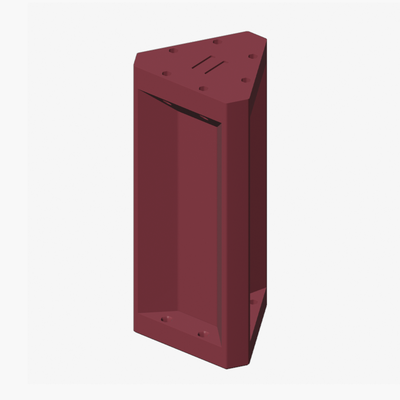
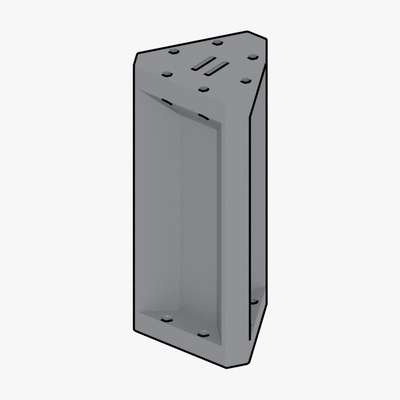
BOM: grey STL previews with edge lines, uniform image size
Re-render the tool STL previews in grey with black feature edges and
display all BOM images at the same width.

Changed region(s): [[0.33, 0.06, 0.69, 0.93]]

diff --git a/documentation/bom/bom.md b/documentation/bom/bom.md
@@ -7,9 +7,9 @@ Printable parts link directly to their `.stl` file and PCBs to their production 
 | Name | Qty | Description | Comments | Suggested link | Image |
 |------|-----|-------------|----------|----------------|-------|
 | Steel ball | 12 | Ø1 mm (0.04") | Precision G10 or better. Can be sourced from small ball bearings | [Aliexpress](https://www.aliexpress.com/item/1005008399505167.html) | |
-| PU stretch cord | 1 m | Ø1mm | e.g. "Stretch Magic" or "Magic String" | [Aliexpress](https://www.aliexpress.com/item/1005006140225266.html) | ![Pu strech cord](images/PU_StretchCord.png) |
+| PU stretch cord | 1 m | Ø1mm | e.g. "Stretch Magic" or "Magic String" | [Aliexpress](https://www.aliexpress.com/item/1005006140225266.html) | <img src="images/PU_StretchCord.png" alt="Pu strech cord" width="120"> |
 | Neodym Cylinder Magnet | 70 | Ø3mm h=5 mm | N52 Grade | [NeoMagnets](https://www.buyneomagnets.com/p/3mm-dia-x-5mm-thick-n52-neodymium-rare-earth-disc-magnets-100-pack/) | |
-| Brass Pipe | 1 m | OD=Ø2mm ID=Ø1 mm | | [Amazon](https://a.co/d/1pRFmtf), [Aliexpress](https://www.aliexpress.com/item/1005006371614363.html) | ![Brass Pipe](images/BrassPipe.png) |
+| Brass Pipe | 1 m | OD=Ø2mm ID=Ø1 mm | | [Amazon](https://a.co/d/1pRFmtf), [Aliexpress](https://www.aliexpress.com/item/1005006371614363.html) | <img src="images/BrassPipe.png" alt="Brass Pipe" width="120"> |
 | M2-8 dowel | 9 | | | [Aliexpress](https://www.aliexpress.com/item/1005009401701158.html) | |
 | SHCS M2-8 | 9 | | | | |
 | Set Screw M3-6 | 3 | | | | |
@@ -22,37 +22,37 @@ Printable parts link directly to their `.stl` file and PCBs to their production 
 
 | Name | Qty | Description | Comments | Suggested link | Image |
 |------|-----|-------------|----------|----------------|-------|
-| DC-DC Step Down Module | 1 | 5V Fixed Output Step-Down Buck Converter | | [Aliexpress](https://www.aliexpress.com/item/1005008257960729.html) | ![DC-DC Step Down](images/Fixed_DC_DC-StepDown.png) |
+| DC-DC Step Down Module | 1 | 5V Fixed Output Step-Down Buck Converter | | [Aliexpress](https://www.aliexpress.com/item/1005008257960729.html) | <img src="images/Fixed_DC_DC-StepDown.png" alt="DC-DC Step Down" width="120"> |
 | (1N5819) OR (PMEG4010) | 1 | Diode (through-hole or SMD) | | | |
-| Raspberry Pi Pico 2 | 1 | Microcontroller board | | [Aliexpress](https://www.aliexpress.com/item/1005007660023339.html) | ![Raspberry Pi Pico 2](images/RaspberryPiPico2.png) |
-| MT6835 Magnetic Encoder Module | 3 | Magnetic encoder | | [Aliexpress](https://www.aliexpress.com/item/1005012795954973.html) | ![MT6835 Magnetic Encoder Module](images/MT6835.png) |
-| TB6612FNG Driver | 3 | | | [Aliexpress](https://www.aliexpress.com/item/1005006246388728.html) | ![TB6612FNG Driver](images/TB6612FNG.png) |
+| Raspberry Pi Pico 2 | 1 | Microcontroller board | | [Aliexpress](https://www.aliexpress.com/item/1005007660023339.html) | <img src="images/RaspberryPiPico2.png" alt="Raspberry Pi Pico 2" width="120"> |
+| MT6835 Magnetic Encoder Module | 3 | Magnetic encoder | | [Aliexpress](https://www.aliexpress.com/item/1005012795954973.html) | <img src="images/MT6835.png" alt="MT6835 Magnetic Encoder Module" width="120"> |
+| TB6612FNG Driver | 3 | | | [Aliexpress](https://www.aliexpress.com/item/1005006246388728.html) | <img src="images/TB6612FNG.png" alt="TB6612FNG Driver" width="120"> |
 | 470 µF Electrolytic Capacitor | 3 | > 100 µF | anything > 100µF will work well | | |
 | 10 µF Ceramic Capacitor 0603 | 3 | Optional | | | |
 | 4.7 k Resistor 0603 | 2 | Optional | | | |
 | NEMA 17 Stepper Motor | 3 | Body ≤ 38 mm | Body length <= 38mm | [Aliexpress](https://www.aliexpress.com/item/4001359634598.html) | |
-| JST XH2.54 4P connector | 3 | 4P Housing & Header 2.54mm pitch | J1, J2, J3 (motors) | [Aliexpress](https://www.aliexpress.com/item/1005007080333485.html) | ![JST XH2.54 Connector](images/JST_XH2.54_Connector.png) |
-| XT60H Connector | 1 | 2P Male & Female pair 7.5mm pitch | Power connector | [Aliexpress](https://www.aliexpress.com/item/1005007605928815.html) | ![XT60H Connector](images/XT60H_Pairs.png) |
-| PH2.0 4P Housing <br> PH2.0 8P Housing | 1 <br> 1 | 4P 2mm pitch Housing <br> 8P 2mm pitch Housing | J5 (tool/I2C)<br> J4 (encoders) | [Aliexpress](https://www.aliexpress.com/item/1005010491403413.html) | ![PH2.0 Housings](images/PH2_Housings.png) |
-| PH2.0 4P Header <br> PH2.0 8P Header | 1 <br> 1 | 4P 2mm pitch Header <br> 8P 2mm pitch Header | J5 (tool/I2C) <br> J4 (encoders) | [Aliexpress](https://www.aliexpress.com/item/1005010491403413.html) | ![PH2.0 Headers](images/PH2_Headers.png) |
+| JST XH2.54 4P connector | 3 | 4P Housing & Header 2.54mm pitch | J1, J2, J3 (motors) | [Aliexpress](https://www.aliexpress.com/item/1005007080333485.html) | <img src="images/JST_XH2.54_Connector.png" alt="JST XH2.54 Connector" width="120"> |
+| XT60H Connector | 1 | 2P Male & Female pair 7.5mm pitch | Power connector | [Aliexpress](https://www.aliexpress.com/item/1005007605928815.html) | <img src="images/XT60H_Pairs.png" alt="XT60H Connector" width="120"> |
+| PH2.0 4P Housing <br> PH2.0 8P Housing | 1 <br> 1 | 4P 2mm pitch Housing <br> 8P 2mm pitch Housing | J5 (tool/I2C)<br> J4 (encoders) | [Aliexpress](https://www.aliexpress.com/item/1005010491403413.html) | <img src="images/PH2_Housings.png" alt="PH2.0 Housings" width="120"> |
+| PH2.0 4P Header <br> PH2.0 8P Header | 1 <br> 1 | 4P 2mm pitch Header <br> 8P 2mm pitch Header | J5 (tool/I2C) <br> J4 (encoders) | [Aliexpress](https://www.aliexpress.com/item/1005010491403413.html) | <img src="images/PH2_Headers.png" alt="PH2.0 Headers" width="120"> |
 
 ## PCBs
 
 | Name | Qty | Description | Comments | File | Image |
 | ---- | --- | ----------- | -------- | ---- | ----- |
-| Control Board | 1 | | | [.zip](../../construction/v4_PCB_zip/PrecisionStepperController3X_v1.3.zip) | ![Control Board](images/PCB_ControlBoard.png) |
-| Ball Joint Plate (balljoint_plate_pcb) | 6 | | | [.zip](../../construction/v4_PCB_zip/balljoint_plate_pcb_jlcpcb.zip) | ![Ball Joint Plate](images/PCB_BallJointPlate.png) |
-| Encoder Board | 1 | | | [.zip](../../construction/v4_PCB_zip/EncoderBoard.zip) | ![Encoder Board](images/PCB_EncoderBoard.png) |
+| Control Board | 1 | | | [.zip](../../construction/v4_PCB_zip/PrecisionStepperController3X_v1.3.zip) | <img src="images/PCB_ControlBoard.png" alt="Control Board" width="120"> |
+| Ball Joint Plate (balljoint_plate_pcb) | 6 | | | [.zip](../../construction/v4_PCB_zip/balljoint_plate_pcb_jlcpcb.zip) | <img src="images/PCB_BallJointPlate.png" alt="Ball Joint Plate" width="120"> |
+| Encoder Board | 1 | | | [.zip](../../construction/v4_PCB_zip/EncoderBoard.zip) | <img src="images/PCB_EncoderBoard.png" alt="Encoder Board" width="120"> |
 
 ## 3D Printing
 
 | Name | Qty | Description | Comments | File | Image |
 | ---- | --- | ----------- | -------- | ---- | ----- |
-| Motor Horn | 3 | | 0.4 mm+ nozzle may require post-processing | [.stl](../../construction/v4_3dprinting_stl/machine/MotorHorn.stl) | ![Motor Horn](images/MotorHorn.png) |
-| RubberBandCollet | 12 | | 0.4 mm nozzle, 0.1mm Layer height + may require post-processing | [.stl](../../construction/v4_3dprinting_stl/machine/RubberBandCollet.stl) | ![Rubber Band Collet](images/RubberBandCollet.png) |
-| Motor Mount | 3 | | | [.stl](../../construction/v4_3dprinting_stl/machine/MotorMount.stl) | ![Motor Mount](images/MotorMount.png) |
-| End Effector | 1 | | | [.stl](../../construction/v4_3dprinting_stl/machine/EndEffector.stl) | ![End Effector](images/EndEffector.png) |
-| Base Block | 1 | | | [.stl](../../construction/v4_3dprinting_stl/machine/BaseBlock.stl) | ![Base Block](images/BaseBlock.png) |
+| Motor Horn | 3 | | 0.4 mm+ nozzle may require post-processing | [.stl](../../construction/v4_3dprinting_stl/machine/MotorHorn.stl) | <img src="images/MotorHorn.png" alt="Motor Horn" width="120"> |
+| RubberBandCollet | 12 | | 0.4 mm nozzle, 0.1mm Layer height + may require post-processing | [.stl](../../construction/v4_3dprinting_stl/machine/RubberBandCollet.stl) | <img src="images/RubberBandCollet.png" alt="Rubber Band Collet" width="120"> |
+| Motor Mount | 3 | | | [.stl](../../construction/v4_3dprinting_stl/machine/MotorMount.stl) | <img src="images/MotorMount.png" alt="Motor Mount" width="120"> |
+| End Effector | 1 | | | [.stl](../../construction/v4_3dprinting_stl/machine/EndEffector.stl) | <img src="images/EndEffector.png" alt="End Effector" width="120"> |
+| Base Block | 1 | | | [.stl](../../construction/v4_3dprinting_stl/machine/BaseBlock.stl) | <img src="images/BaseBlock.png" alt="Base Block" width="120"> |
 
 # Tool - Rod Sharpener
 
@@ -60,8 +60,8 @@ Printable parts link directly to their `.stl` file and PCBs to their production 
 
 | Name | Qty | Description | Comments | File | Image |
 | ---- | --- | ----------- | -------- | ---- | ----- |
-| Rod Guide | 1 | | | [.stl](../../construction/v4_3dprinting_stl/tools/rod_sharpener/RodGuide.stl) | ![Rod Guide (Sharpener)](images/Sharpener_RodGuide.png) |
-| Blade Carrier | 1 | | | [.stl](../../construction/v4_3dprinting_stl/tools/rod_sharpener/BladeCarrier.stl) | ![Blade Carrier](images/Sharpener_BladeCarrier.png) |
+| Rod Guide | 1 | | | [.stl](../../construction/v4_3dprinting_stl/tools/rod_sharpener/RodGuide.stl) | <img src="images/Sharpener_RodGuide.png" alt="Rod Guide (Sharpener)" width="120"> |
+| Blade Carrier | 1 | | | [.stl](../../construction/v4_3dprinting_stl/tools/rod_sharpener/BladeCarrier.stl) | <img src="images/Sharpener_BladeCarrier.png" alt="Blade Carrier" width="120"> |
 
 # Tool - Rod Length Setting Press
 
@@ -69,14 +69,14 @@ Printable parts link directly to their `.stl` file and PCBs to their production 
 
 | Name | Qty | Description | Comments | File | Image |
 | ---- | --- | ----------- | -------- | ---- | ----- |
-| ball_alignment_disc_pcb | 1 | | | [.zip](../../construction/v4_PCB_zip/ball_alignment_disc_pcb.zip) | ![Ball Alignment Disc](images/PCB_BallAlignmentDisc.png) |
+| ball_alignment_disc_pcb | 1 | | | [.zip](../../construction/v4_PCB_zip/ball_alignment_disc_pcb.zip) | <img src="images/PCB_BallAlignmentDisc.png" alt="Ball Alignment Disc" width="120"> |
 
 ## 3D Printing
 
 | Name | Qty | Description | Comments | File | Image |
 | ---- | --- | ----------- | -------- | ---- | ----- |
-| RodGrindingJigA | 1 | | | [.stl](../../construction/v4_3dprinting_stl/tools/rod_length_setting_press/RodGrindingJigA.stl) | ![Rod Grinding Jig A](images/Press_RodGrindingJigA.png) |
-| RodGrindingJigB | 1 | | | [.stl](../../construction/v4_3dprinting_stl/tools/rod_length_setting_press/RodGrindingJigB.stl) | ![Rod Grinding Jig B](images/Press_RodGrindingJigB.png) |
-| RodGuide | 1 | | | [.stl](../../construction/v4_3dprinting_stl/tools/rod_length_setting_press/RodGuide.stl) | ![Rod Guide (Length Press)](images/Press_RodGuide.png) |
-| RodCollet | 2 | | | [.stl](../../construction/v4_3dprinting_stl/tools/rod_length_setting_press/RodCollet.stl) | ![Rod Collet](images/Press_RodCollet.png) |
-| CaliperClamp | 2 | | | [.stl](../../construction/v4_3dprinting_stl/tools/rod_length_setting_press/CaliperClamp.stl) | ![Caliper Clamp](images/Press_CaliperClamp.png) |
+| RodGrindingJigA | 1 | | | [.stl](../../construction/v4_3dprinting_stl/tools/rod_length_setting_press/RodGrindingJigA.stl) | <img src="images/Press_RodGrindingJigA.png" alt="Rod Grinding Jig A" width="120"> |
+| RodGrindingJigB | 1 | | | [.stl](../../construction/v4_3dprinting_stl/tools/rod_length_setting_press/RodGrindingJigB.stl) | <img src="images/Press_RodGrindingJigB.png" alt="Rod Grinding Jig B" width="120"> |
+| RodGuide | 1 | | | [.stl](../../construction/v4_3dprinting_stl/tools/rod_length_setting_press/RodGuide.stl) | <img src="images/Press_RodGuide.png" alt="Rod Guide (Length Press)" width="120"> |
+| RodCollet | 2 | | | [.stl](../../construction/v4_3dprinting_stl/tools/rod_length_setting_press/RodCollet.stl) | <img src="images/Press_RodCollet.png" alt="Rod Collet" width="120"> |
+| CaliperClamp | 2 | | | [.stl](../../construction/v4_3dprinting_stl/tools/rod_length_setting_press/CaliperClamp.stl) | <img src="images/Press_CaliperClamp.png" alt="Caliper Clamp" width="120"> |
